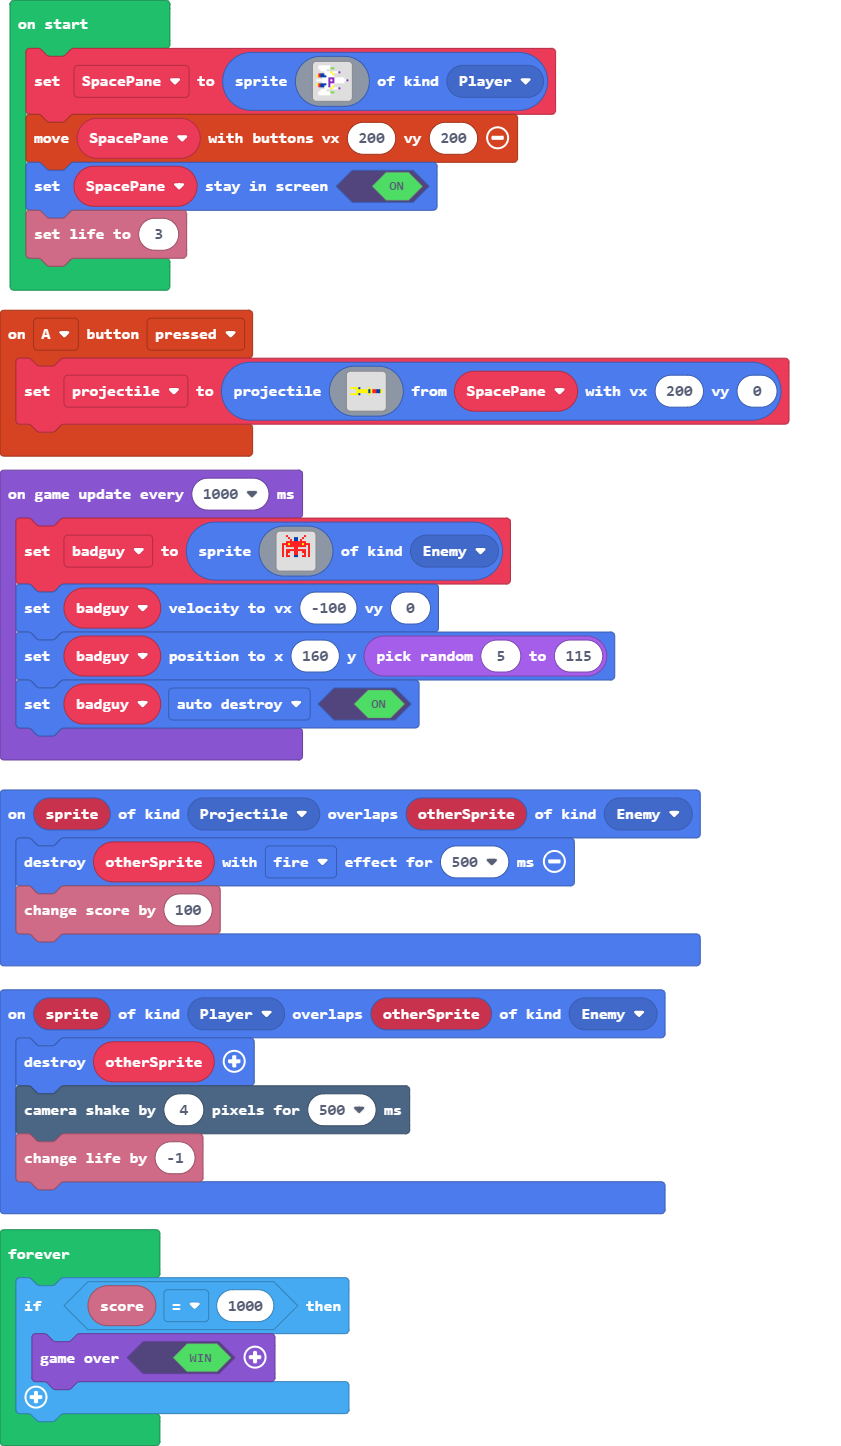
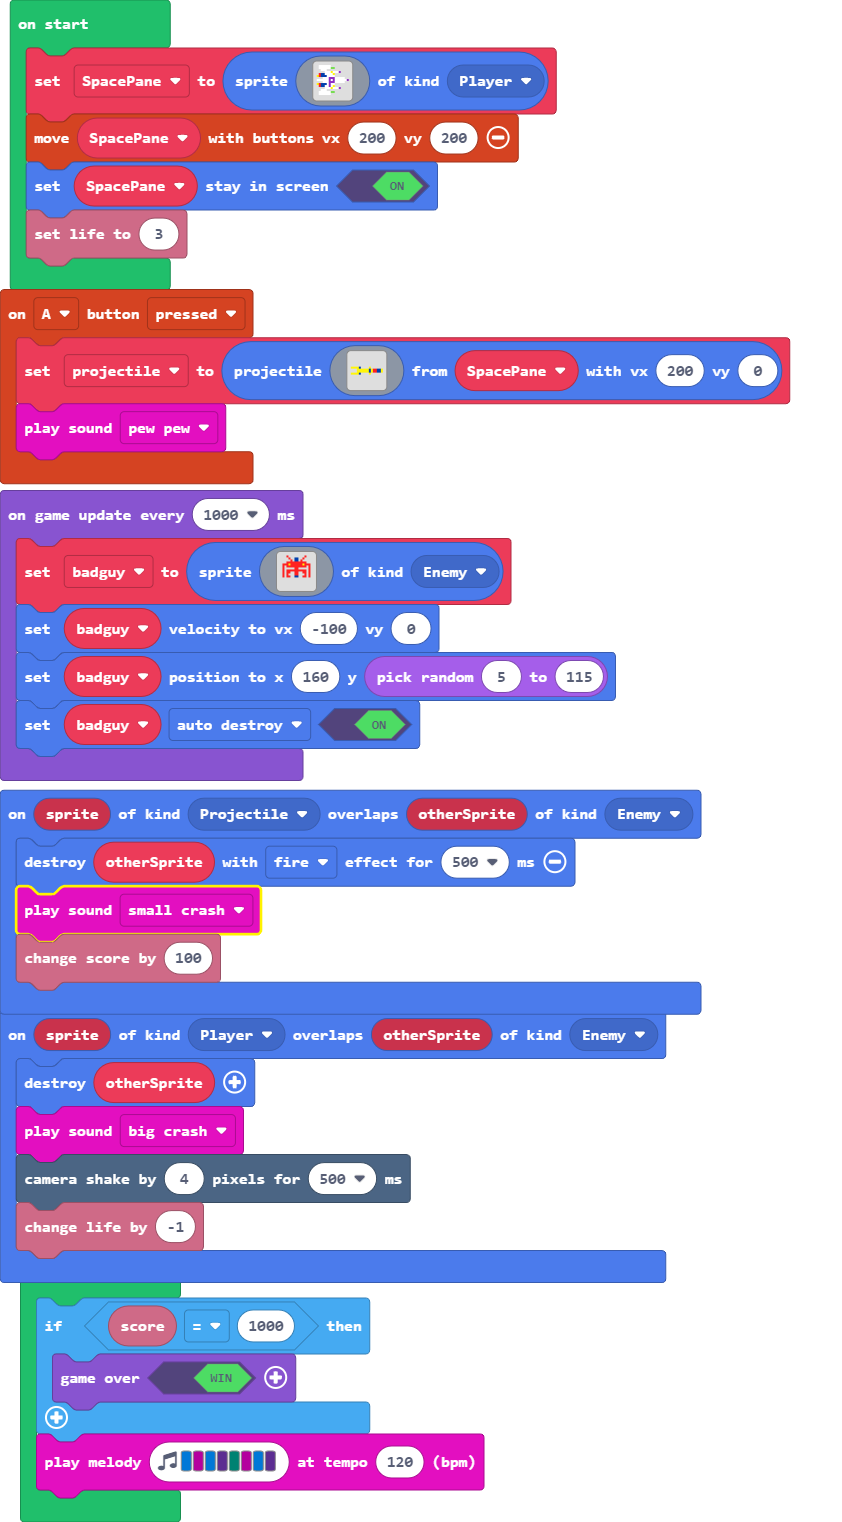
Pongo sonido, melodia disparos y destrución de enemigo o nave

diff --git a/main.ts b/main.ts
@@ -17,13 +17,16 @@ controller.A.onEvent(ControllerButtonEvent.Pressed, function () {
         . . . . . . . . . . . . . . . . 
         . . . . . . . . . . . . . . . . 
         `, SpacePane, 200, 0)
+    music.pewPew.play()
 })
 sprites.onOverlap(SpriteKind.Projectile, SpriteKind.Enemy, function (sprite, otherSprite) {
     otherSprite.destroy(effects.fire, 500)
+    music.smallCrash.play()
     info.changeScoreBy(100)
 })
 sprites.onOverlap(SpriteKind.Player, SpriteKind.Enemy, function (sprite, otherSprite) {
     otherSprite.destroy()
+    music.bigCrash.play()
     scene.cameraShake(4, 500)
     info.changeLifeBy(-1)
 })
@@ -78,4 +81,5 @@ forever(function () {
     if (info.score() == 1000) {
         game.over(true)
     }
+    music.playMelody("E C E D F C E D ", 120)
 })
